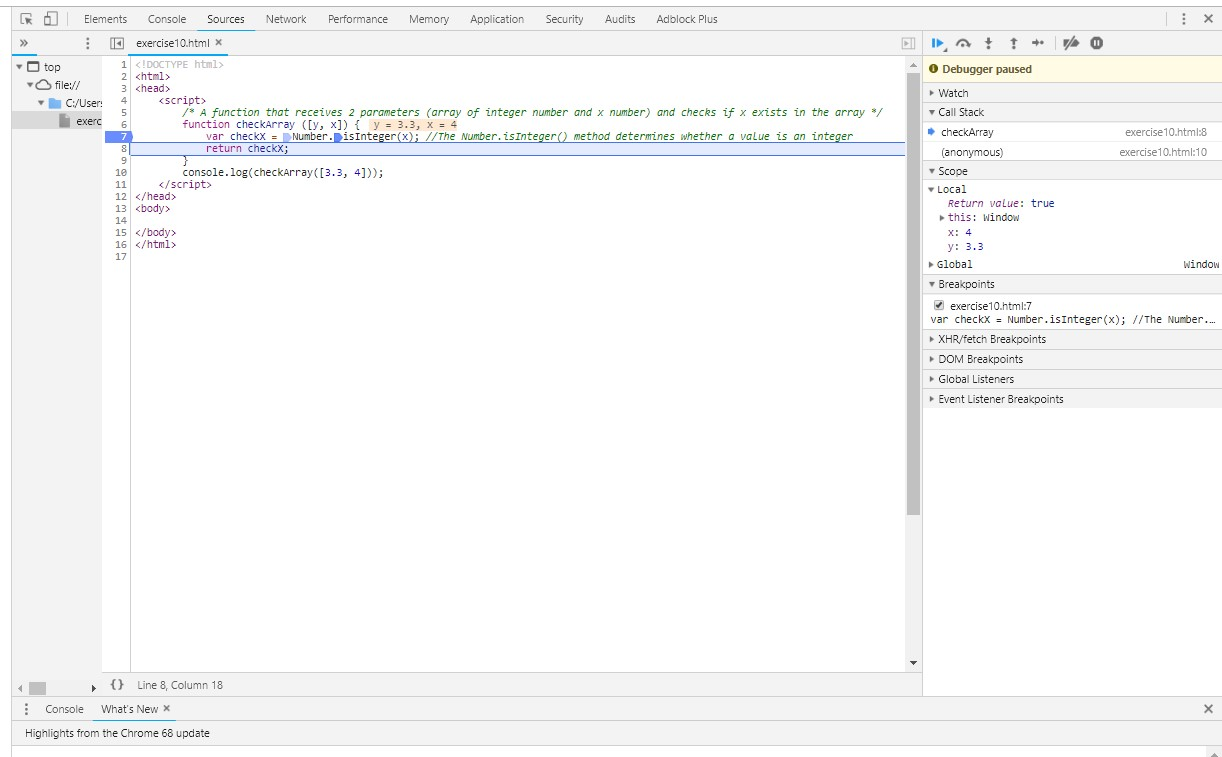
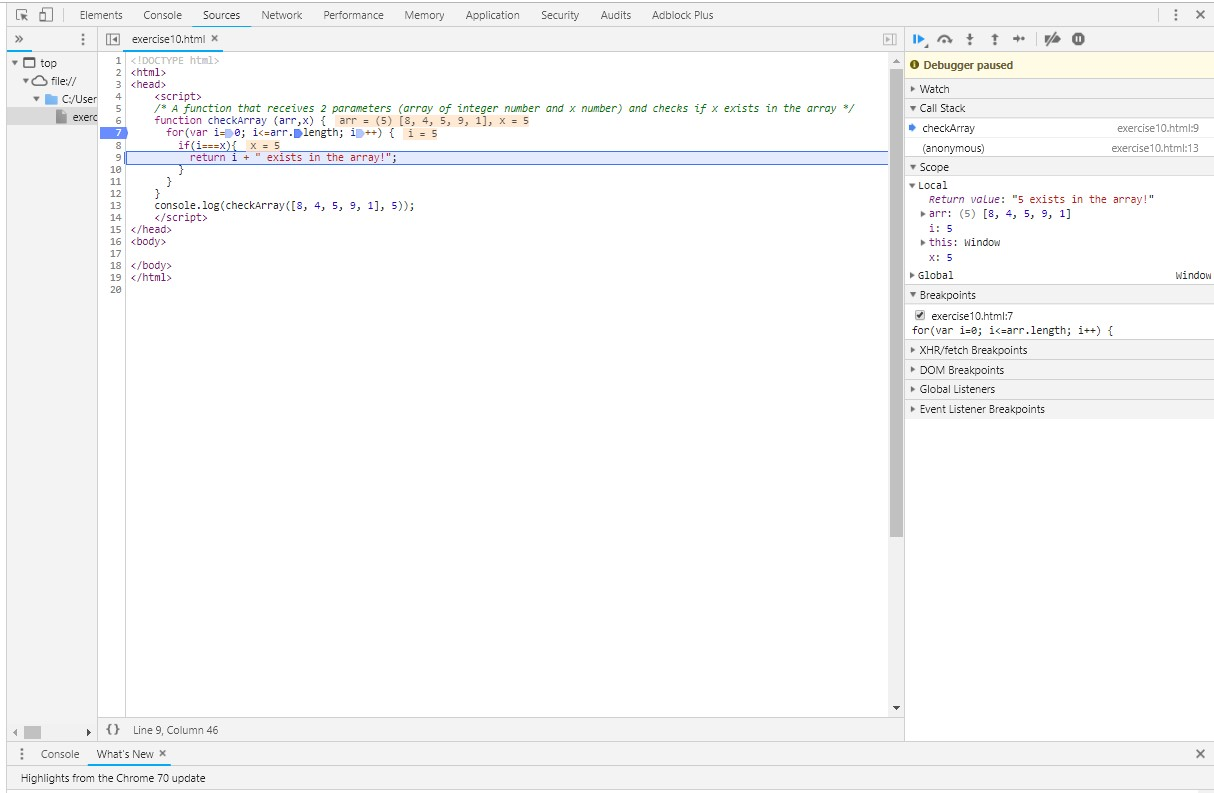
Add files via upload

diff --git a/exercise_10/exercise10.html b/exercise_10/exercise10.html
@@ -2,12 +2,15 @@
 <html>
 <head>
 	<script>
-		/* A function that receives 2 parameters (array of integer number and x number) and checks if x exists in the array */
-		function checkArray ([y, x]) {
-			var checkX = Number.isInteger(x); //The Number.isInteger() method determines whether a value is an integer
-			return checkX;
-		}
-		console.log(checkArray([3.3, 4]));
+    /* A function that receives 2 parameters (array of integer number and x number) and checks if x exists in the array */
+    function checkArray (arr,x) {
+      for(var i=0; i<arr.length; i++) {
+        if(i===x){
+          return i + " exists in the array!";
+        }
+      }
+    }
+    console.log(checkArray([8, 4, 5, 9, 1], 5));
 	</script>
 </head>
 <body>
